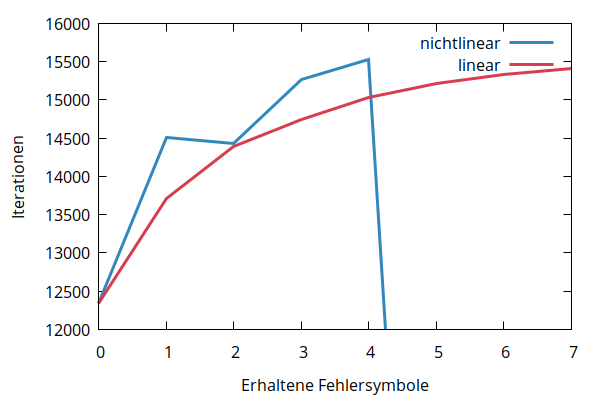
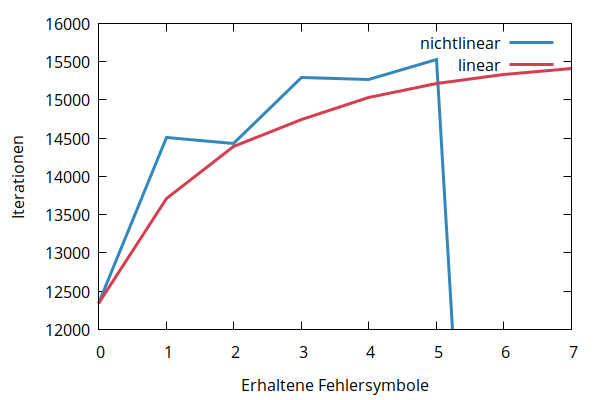
splitting

diff --git a/masterarbeit/thesis/src/eval.tex b/masterarbeit/thesis/src/eval.tex
@@ -85,21 +85,17 @@ Wie in Abbildung \ref{fig:housesteps} zu sehen ist, hat eine Definition der Gren
   \item \textbf{(Splitting)} Einführen neuer Fehlersymbole für Monome, deren Koeffizieten durch die Schritte 1-3 zu stark gewachsen sind.
  \end{enumerate}
 
- Abbildung \ref{fig:sweeping} zeigt die Performanz der Berechnung der H\e non-Abbildung, gemessen an der erreichten Iterationszahl mit statischer Präzision in verschiedenen Fällen. Wie zuvor ist die Berechnung beendet, sobald die Fläche des Rechtecks einen Schwellenwert überschreitet. Zu sehen ist, bei welcher Kombination von Parametern für Sweeing (Schritt 1) und Sweping überschüssiger Fehlersymbole (Schritt 2) die Überschätzung am langsamsten wächst und somit die meisten Iterationen errechntet werden können. Eine Kurve stellt das Ergebnis dar, welches entsteht, wenn $n$ Fehlersymbole erhalten bleiben. Die Zeiteffizienz ist in diesem Falle kein Faktor.
- 
-Es ist zu erkennen, dass sich die Kurven innerhalb derselben Sweeping-Strategie kaum unterscheiden. Eine Verzehnfachung der Bitzahl in der Breite der Intervalle und der Präzision verzehnfacht auch die erreichte Iterationszahl. 
+ Abbildung \ref{fig:sweeping} zeigt die Performanz der Berechnung der H\e non-Abbildung, gemessen an der erreichten Iterationszahl mit statischer Präzision in verschiedenen Fällen. Wie zuvor ist die Berechnung beendet, sobald die Fläche des Rechtecks einen Schwellenwert überschreitet. Zu sehen ist, bei welcher Kombination von Parametern für Sweeing (Schritt 1) und Sweping überschüssiger Fehlersymbole (Schritt 2) die Überschätzung am langsamsten wächst und somit die meisten Iterationen errechntet werden können. Eine Kurve stellt das Ergebnis dar, welches entsteht, wenn $n$ Fehlersymbole erhalten bleiben. Die Zeiteffizienz ist in diesem Falle kein Faktor. Es ist zu erkennen, dass sich die Kurven innerhalb derselben Sweeping-Strategie kaum unterscheiden. Eine Verzehnfachung der Bitzahl in der Breite der Intervalle und der Präzision verzehnfacht auch die erreichte Iterationszahl. Die besten Ergebnisse werden beim Beschränken auf \textbf{square\_only} (quadratisches Sweeping) für $n=3$ und Sweeping zum Grade 0; bei \textbf{square\_first} für $n=1$, $n=4$ und Sweeping zum Grade 3 erreicht. Insgesamt wird jedoch mit \textbf{square\_only} zum Grade 0, also einem Sweeping bis zu einem Taylormodell, dessen Monome Variablen mit höchstens Grad 1 haben, die höchste Iterationszahl erzielt:
 
-Die besten Ergebnisse werden beim Beschränken auf \textbf{square\_only} (quadratisches Sweeping) für $n=3$ und Sweeping zum Grade 0; bei \textbf{square\_first} für $n=1$, $n=4$ und Sweeping zum Grade 3 erreicht.
+$$ c \cdot \lambda_1^3 \lambda_2^2 \lambda_3^1 \lambda_4^3  \underset{square\_only}{\overset{sweep\ to\ 0}{\rightsquigarrow}} c' \cdot \lambda_1^1 \lambda_2^0 \lambda_3^1 \lambda_4^1$$
 
-Insgesamt wird jedoch mit \textbf{square\_only} zum Grade 0, also einem Sweeping bis zu einem Taylormodell mit !!!!!!!!, die höchste Iterationszahl erzielt. Im Vergleich mit rein linearen Taylormodellen zeigt sich jedoch eine leichte Verbesserung (siehe Abbildung \ref{fig:extra}). Der Unterschied besteht darin, dass die nichtlinearen Taylormodelle während der Berechnung und besonders während der Multiplikation Punktintervalle erhalten können und sich stattdessen der Grad des Polynoms erhöht. Nach jeder Iteration werden diese dann zunächst zu linearen Taylormodellen reduziert, um dann den Grad durch Splitting auf den Monomen um maximal 1 zu erhöhen. Für lineare Taylormodelle steht lediglich das Splitting für den Kernel zur Verfügung, da sonst nichtlineare Polynome entstünden. Des Weiteren wird hier bereits während der Multiplikation gesweept und Punktintervalle werden zu regulären Intervallen.
 
-Die Performanz des Sweepings \textbf{square\_only} zum Grade 0 verbessert sich im Schnitt mit einer wachsenden Zahl der zu erhaltenen Fehlersymbole, wie in Abbildung \ref{fig:extra} zu sehen ist. Jedes Fehlersymbol erhöht die Menge an erhaltener Abhängigkeitsinformation und sorgt dafür, dass ein Taylormodell dessen runde Ränder besser beschreiben kann. Allerdings stellt die Pratkikabilität dieser Herangehensweise ein Problem dar, da so sehr große Polynome entstehen, die während einer Iteration der H\e non-Abbildung exponentiell in ihrer Länge wachsen.
- 
+
 \begin{figure}[tbh]
 \centering
 \begin{subfigure}{.5\textwidth}
   \centering
-  \includegraphics[width=\linewidth]{img/sweeping_only.png}
+  \includegraphics[width=\linewidth]{img/sweeping_only.png}  
   \caption{Sweeping beschränkt \textbf{square\_only}}
   \label{fig:sub1}
 \end{subfigure}%
@@ -122,16 +118,43 @@ Die Performanz des Sweepings \textbf{square\_only} zum Grade 0 verbessert sich i
  \caption{Sweeping beschränkt \textbf{square\_first}}
   \label{fig:sub2}
 \end{subfigure}
-
-
-\caption[Sweeping mit verschiedenen Graden]{Anzahl an Iterationen, bis das Rechteck eine gewisse Fläche überschreitet, bei einer festen Präzision und Entfernen aller Fehlersymbole bis auf die n größten. Bei n = 0 bleibt Fehlersymbol erhalten. \\ (a) und (b): Präzision $2^{-1000}$ und ein initiales Rechteck von $x_0 = y_0 = [0 \pm 2^{1000}]$ \\ 
- (c) und (d): Präzision $2^{-10000}$ und ein initiales Rechteck von $x_0 = y_0 = [0 \pm 2^{10000}]$
+\caption[Sweeping mit verschiedenen Graden]{Anzahl an Iterationen mit Erhalt der n größten Fehlersymbole. (a) (b): 1000 Bits Präzision , $x_0 = y_0 = [0 \pm 2^{1000}]$.
+ (c)(d): 10000 Bits Präzision , $x_0 = y_0 = [0 \pm 2^{10000}]$
 }
 \label{fig:sweeping}
 \end{figure}
 
+Im Vergleich mit rein linearen Taylormodellen zeigt sich jedoch eine leichte Verbesserung (siehe Abbildung \ref{fig:extra}). Der Unterschied besteht darin, dass die nichtlinearen Taylormodelle während der Berechnung und besonders während der Multiplikation Punktintervalle erhalten können und sich stattdessen der Grad des Polynoms erhöht. Nach jeder Iteration werden diese dann zunächst zu linearen Taylormodellen reduziert, um dann den Grad durch Splitting auf den Monomen um maximal 1 zu erhöhen. Für lineare Taylormodelle steht lediglich das Splitting für den Kernel zur Verfügung, da sonst nichtlineare Polynome entstünden. Des Weiteren wird hier bereits während der Multiplikation gesweept und Punktintervalle werden zu regulären Intervallen. Die Performanz des Sweepings \textbf{square\_only} zum Grade 0 verbessert sich im Schnitt mit einer wachsenden Zahl der zu erhaltenen Fehlersymbole, wie in Abbildung \ref{fig:extra} zu sehen ist. Jedes Fehlersymbol erhöht die Menge an erhaltener Abhängigkeitsinformation und sorgt dafür, dass ein Taylormodell dessen runde Ränder besser beschreiben kann. Allerdings stellt die Pratkikabilität dieser Herangehensweise ein Problem dar, da so sehr große Polynome entstehen, die während einer Iteration der H\e non-Abbildung exponentiell in ihrer Länge wachsen.
+ 
+
  \Abbildungps{tbh}{.6}{img/extra.png}{fig:extra}{Experimentelle Ergebnisse zu erhaltenen Fehlersymbolen}{Iterationszahl der H\e non-Abbildung mit fester Genauigkeit von 1000 Bits.}
 
+
+ \section{Splitting}
+ 
+ 
+ 
+ \Abbildungps{tbh}{.6}{img/split.png}{fig:split}{Experimentelle Ergebnisse zum Vorgehen beim Splitting}{Iterationszahl der H\e non-Abbildung mit 10000 Bits fester Genauigkeit.}
+ 
+ 
+ 
+ 
+ 
+ 
+ 
+ 
+ 
+ 
+ 
+ 
+ 
+ 
+ 
+ 
+ 
+ 
+ 
+ 
  
  
 

diff --git a/masterarbeit/thesis/src/entwurf.tex b/masterarbeit/thesis/src/entwurf.tex
@@ -2,8 +2,8 @@
 %% $Id: entwurf.tex 61 2012-05-03 13:58:03Z bless $
 %%
 
-\chapter{Entwurf / Konzeption}
-\label{ch:Entwurf}
+%\chapter{Entwurf / Konzeption}
+%\label{ch:Entwurf}
 %% ==============================
 
 
